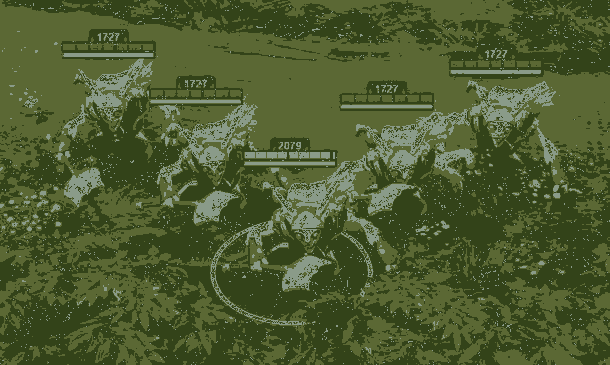
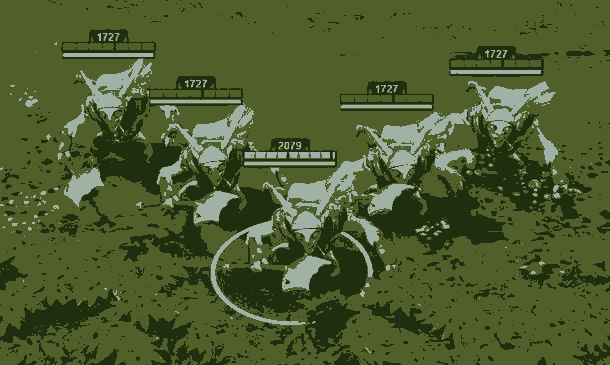
Kmeans werkend
Hopla

diff --git a/Vision Algorithms/Vision Algorithms/K_MeansClusterAlgorithm.cpp b/Vision Algorithms/Vision Algorithms/K_MeansClusterAlgorithm.cpp
@@ -34,7 +34,7 @@ void K_MeansClusterAlgorithm::doAlgorithm(unsigned char * rawData, int bpp, int 
 	int * greenClusterTotal = new int [k];
 	int * blueClusterTotal = new int [k];
 	int * clusterCount = new int[k];
-	unsigned int x, y, closest, cluster, totalColor, closestColor, distClosest, distCluster;
+	unsigned int x, y, closest, cluster, distClosest, distCluster;
 	for (i = 0; i < 25; i++) {
 		std::cout << "Iteration " << i + 1 << "\n";
 		for (cluster = 0; cluster < k; cluster++) {
@@ -47,17 +47,16 @@ void K_MeansClusterAlgorithm::doAlgorithm(unsigned char * rawData, int bpp, int 
 			for (x = 0; x < pitch; x += bpp) {
 				int pixel = y * pitch + x;
 				closest = 0;
-				totalColor = rawData[pixel + RED] + rawData[pixel + GREEN] + rawData[pixel + BLUE];
-				closestColor = redClusters[closest] + greenClusters[closest] + blueClusters[closest];
+				distClosest = (rawData[pixel + RED] - redClusters[closest]) * (rawData[pixel + RED] - redClusters[closest])
+							+ (rawData[pixel + GREEN] - greenClusters[closest]) * (rawData[pixel + GREEN] - greenClusters[closest])
+							+ (rawData[pixel + BLUE] - blueClusters[closest]) * (rawData[pixel + BLUE] - blueClusters[closest]);
 				for (cluster = 0; cluster < k; cluster++) {
-					int clusterColor = redClusters[cluster] + greenClusters[cluster] + blueClusters[cluster];
-					distClosest = totalColor - closestColor;
-					distClosest *= distClosest;
-					distCluster = totalColor - clusterColor;
-					distCluster *= distCluster;
-					if (distClosest * distClosest > distCluster * distCluster) {
+					distCluster = (rawData[pixel + RED] - redClusters[cluster]) * (rawData[pixel + RED] - redClusters[cluster])
+								+ (rawData[pixel + GREEN] - greenClusters[cluster]) * (rawData[pixel + GREEN] - greenClusters[cluster])
+								+ (rawData[pixel + BLUE] - blueClusters[cluster]) * (rawData[pixel + BLUE] - blueClusters[cluster]);
+					if (distClosest > distCluster) {
 						closest = cluster;
-						closestColor = clusterColor;
+						distClosest = distCluster;
 					}
 				}
 				redClusterTotal[closest] += rawData[pixel + RED];
@@ -89,18 +88,18 @@ void K_MeansClusterAlgorithm::doAlgorithm(unsigned char * rawData, int bpp, int 
 	std::cout << "Starting picture change\n";
 	for (y = 0; y < height; y++) {
 		for (x = 0; x < pitch; x += bpp) {
+			int pixel = y * pitch + x;
 			closest = 0;
-			totalColor = rawData[y * pitch + x + RED] + rawData[y * pitch + x + GREEN] + rawData[y * pitch + x + BLUE];
-			closestColor = redClusters[closest] + greenClusters[closest] + blueClusters[closest];
+			distClosest = (rawData[pixel + RED] - redClusters[closest]) * (rawData[pixel + RED] - redClusters[closest])
+						+ (rawData[pixel + GREEN] - greenClusters[closest]) * (rawData[pixel + GREEN] - greenClusters[closest])
+						+ (rawData[pixel + BLUE] - blueClusters[closest]) * (rawData[pixel + BLUE] - blueClusters[closest]);
 			for (cluster = 0; cluster < k; cluster++) {
-				int clusterColor = redClusters[cluster] + greenClusters[cluster] + blueClusters[cluster];
-				distClosest = totalColor - closestColor;
-				distClosest *= distClosest;
-				distCluster = totalColor - clusterColor;
-				distCluster *= distCluster;
-				if (distClosest * distClosest > distCluster * distCluster) {
+				distCluster = (rawData[pixel + RED] - redClusters[cluster]) * (rawData[pixel + RED] - redClusters[cluster])
+					+ (rawData[pixel + GREEN] - greenClusters[cluster]) * (rawData[pixel + GREEN] - greenClusters[cluster])
+					+ (rawData[pixel + BLUE] - blueClusters[cluster]) * (rawData[pixel + BLUE] - blueClusters[cluster]);
+				if (distClosest > distCluster) {
 					closest = cluster;
-					closestColor = clusterColor;
+					distClosest = distClosest;
 				}
 			}
 			rawData[y * pitch + x + RED] = redClusters[closest];

diff --git a/Vision Algorithms/Vision Algorithms/Vision Algorithms.cpp b/Vision Algorithms/Vision Algorithms/Vision Algorithms.cpp
@@ -18,7 +18,7 @@
 
 int _tmain(int argc, _TCHAR* argv[])
 {
-	Image original("testK.png");
+	Image original("meepogroep.png");
 	if (original.isCreated()) {
 		/*
 		Image gray(original);
@@ -38,8 +38,7 @@ int _tmain(int argc, _TCHAR* argv[])
 		GREEN.applyAlgorithm(new SingleColorAlgorithm(1));
 		RED.applyAlgorithm(new SingleColorAlgorithm(2)); */
 		Image cluster(original); 
-		cluster.applyAlgorithm(new MeanAlgorithm());
-		cluster.applyAlgorithm(new K_MeansClusterAlgorithm(3));
+		cluster.applyAlgorithm(new K_MeansClusterAlgorithm(20));
 	}
 
 	std::cout << "Press ENTER to continue... ";

diff --git a/Vision Algorithms/Vision Algorithms/color.cpp b/Vision Algorithms/Vision Algorithms/color.cpp
@@ -1,0 +1,36 @@
+#include "stdafx.h"
+#include "color.h"
+
+
+color::color(int red, int green, int blue) : red(red), green(green), blue(blue)
+{
+}
+
+
+color::~color()
+{
+}
+
+int color::getRed() const {
+	return red;
+}
+
+int color::getGreen() const {
+	return green;
+}
+
+int color::getBlue() const {
+	return blue;
+}
+
+void color::setRed(int r) {
+	red = r;
+}
+
+void color::setGreen(int g) {
+	green = g;
+}
+
+void color::setBlue(int b) {
+	blue = b;
+}

diff --git a/Vision Algorithms/Vision Algorithms/color.h b/Vision Algorithms/Vision Algorithms/color.h
@@ -1,0 +1,18 @@
+#pragma once
+class color
+{
+private:
+	int red;
+	int green;
+	int blue;
+public:
+	color(int red, int green, int blue);
+	~color();
+	int getRed() const;
+	int getGreen() const;
+	int getBlue() const;
+	void setRed(int r);
+	void setGreen(int g);
+	void setBlue(int b);
+};
+

diff --git a/Vision Algorithms/Vision Algorithms/K_MeansClusterAlgorithm.h b/Vision Algorithms/Vision Algorithms/K_MeansClusterAlgorithm.h
@@ -1,10 +1,10 @@
 #pragma once
 #include "Algorithm.h"
 #include <iostream>
+#include <vector>
 #include <string>
 #include <time.h>
 #include <random>
-#include <vector>
 
 class K_MeansClusterAlgorithm : public Algorithm
 {
